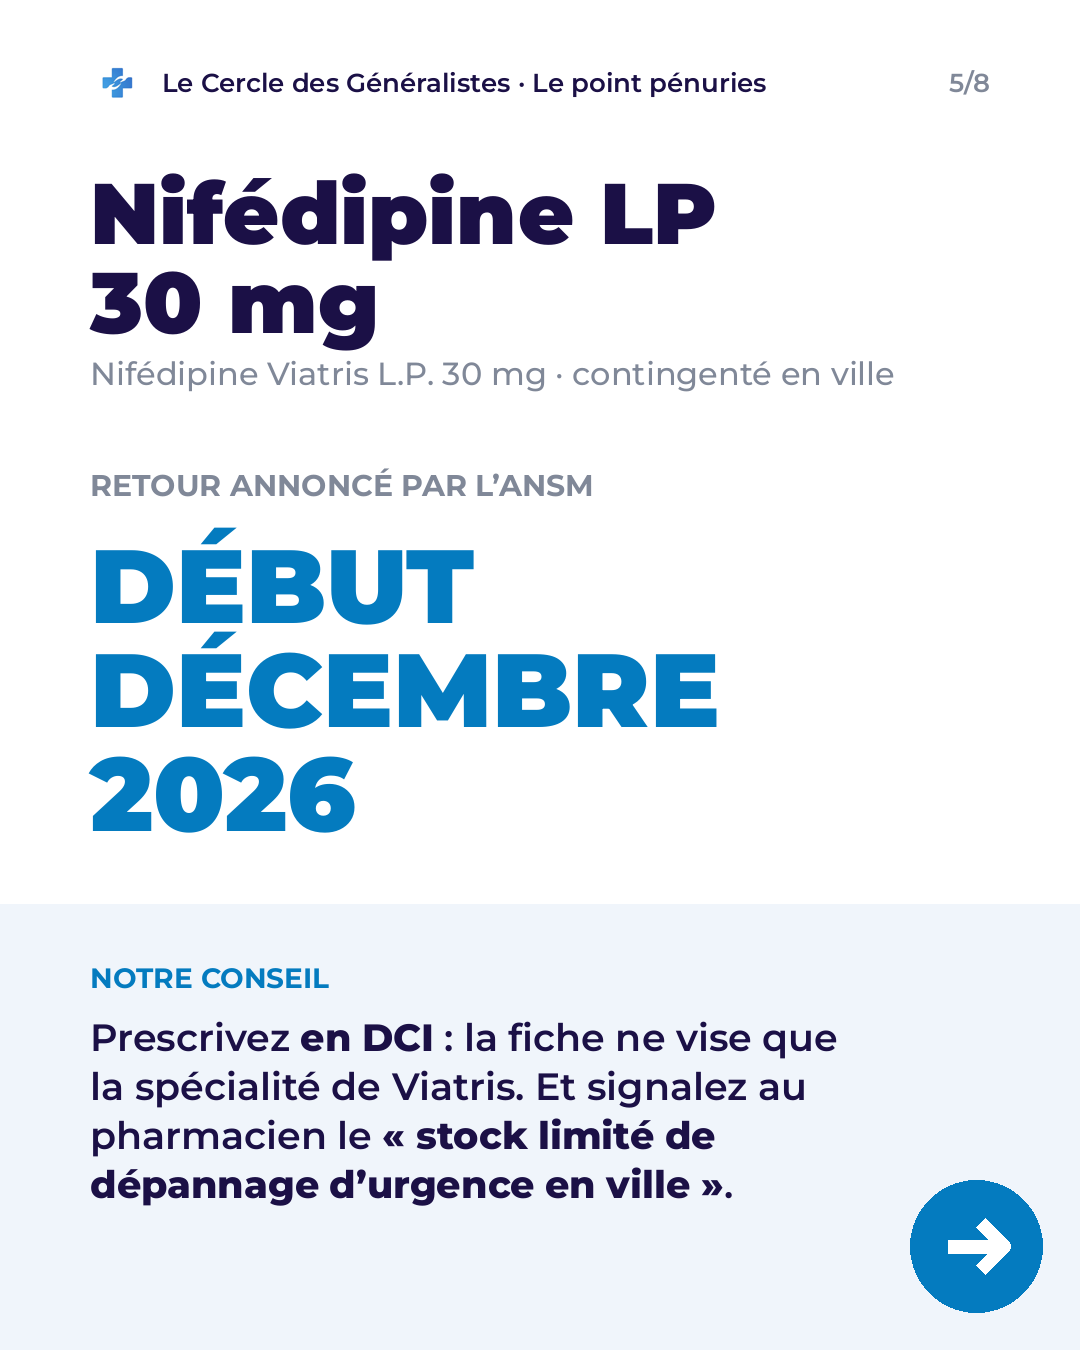
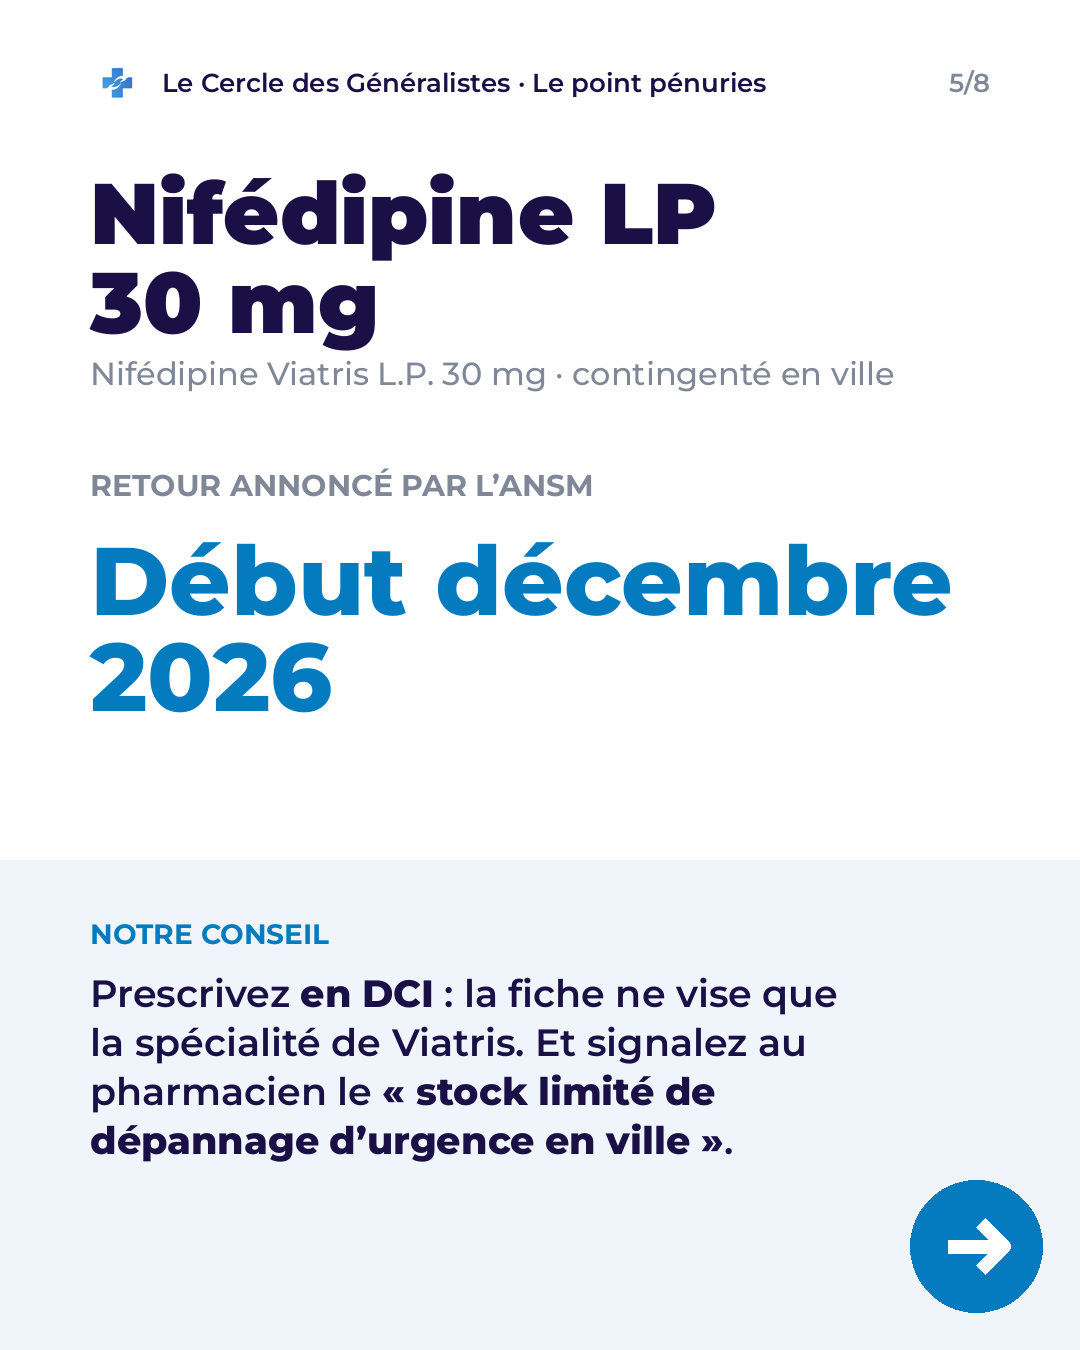
Carrousels du 19/11 : titres reecrits, sans capitales
Romain : pas de majuscules, titres a revoir entierement. Titres en Montserrat ExtraBold, casse normale, qui disent
ce que la slide apprend ; dates des fiches en casse normale ; controle du bandeau d'image trop bas.

Claude-Session: https://claude.ai/code/session_01E7sNzKT9uTZfQaWiRWBKKt

Changed region(s): [[0.0611, 0.6844, 0.7944, 0.9022], [0.0917, 0.3733, 0.8861, 0.6222]]

diff --git a/lcdg_1119/carrousels_1119.py b/lcdg_1119/carrousels_1119.py
@@ -32,9 +32,9 @@ MARGE = 90
 SORTIE = Path(__file__).resolve().parent / "carrousels"
 
 
-def titre(d, y, texte, taille=96):
+def titre(d, y, texte, taille=72):
     """Titre en capitales, Montserrat Black ; *mot* en bleu."""
-    return ecrire(d, MARGE, y, W - 2 * MARGE, texte.upper(), taille, graisse="Black", graisse_forte="Black",
+    return ecrire(d, MARGE, y, W - 2 * MARGE, texte, taille, graisse="ExtraBold", graisse_forte="ExtraBold",
                   couleur=NUIT, accent=BLEU, interligne=1.04)
 
 
@@ -71,7 +71,7 @@ def slide(s, num, total, rubrique):
     d = ImageDraw.Draw(im)
     entete(im, d, num, total, rubrique)
     y = 150
-    y += titre(d, y, s["titre"], s.get("taille_titre", 92))
+    y += titre(d, y, s["titre"], s.get("taille_titre", 72))
     y += 34
     y += ecrire(d, MARGE, y, W - 2 * MARGE, s["texte"], s.get("taille", 38), graisse="Regular",
                 graisse_forte="Bold", couleur=TEXTE, interligne=1.36)
@@ -84,7 +84,10 @@ def slide(s, num, total, rubrique):
         d.text((MARGE + l + 90, y + 40), "Lien en bio", font=police(30, "SemiBold"), fill=GRIS, anchor="lm")
         y += 80
     ill = illustration(s["image"]) if s.get("image") else None
-    bandeau_image(im, d, max(y + 50, s.get("bandeau_min", 820)), ill)
+    yb = max(y + 50, s.get("bandeau_min", 820))
+    if ill is not None and H - yb < 400:
+        print(f"[!] {rubrique} {num}/{total} : bandeau de l'image trop bas ({H - yb} px), raccourcir le texte")
+    bandeau_image(im, d, yb, ill)
     if num < total:
         fleche(d)
     return im
@@ -105,7 +108,7 @@ def fiche(f, num, total):
     y += 70
     d.text((MARGE, y), f["libelle"], font=police(30, "Bold"), fill=GRIS)
     y += 56
-    y += ecrire(d, MARGE, y, W - 2 * MARGE, f["date"].upper(), f.get("taille_date", 104), graisse="Black",
+    y += ecrire(d, MARGE, y, W - 2 * MARGE, f["date"], f.get("taille_date", 96), graisse="ExtraBold",
                 graisse_forte="Black", couleur=BLEU, accent=BLEU, interligne=1.0)
     # le geste, dans le bandeau pâle du bas
     yb = max(y + 70, 860)
@@ -121,7 +124,7 @@ def fiche(f, num, total):
 # ------------------------------------------------------------------ Secteur 3 (PDF p. 9 et 10)
 SECTEUR3 = [
     # p. 9, SITUATION ; ESSENTIEL (« Quand : au 1er janvier 2027 »)
-    {"titre": f"Secteur{NB}3{NB}: leurs ordonnances ne seront *plus remboursées*", "taille_titre": 82,
+    {"titre": f"Secteur{NB}3{NB}: leurs prescriptions *ne seront plus remboursées*",
      "bandeau_min": 700,
      "texte": f"À partir du **1er{NB}janvier 2027**, ce que prescrivent les médecins non conventionnés ne sera plus "
               f"remboursé, sauf exception. **Leurs patients viendront vers vous.**",
@@ -131,7 +134,7 @@ SECTEUR3 = [
     # p. 9, CE QUI EST CONFIRMÉ (L. 162-5-10 complété par l'article 76 : « Les produits de santé, les actes et les
     # prestations prescrits […] à l'exception de ceux prescrits par ces médecins à titre gracieux, pour eux-mêmes et
     # pour leurs proches ») ; p. 10 (« biologie, imagerie, kinésithérapie, soins infirmiers, transports »)
-    {"titre": f"Pas seulement *les médicaments*",
+    {"titre": f"Pas seulement les médicaments{NB}: *la kiné aussi*",
      "texte": f"L{AP}article{NB}76 vise les produits de santé, **les actes et les prestations** prescrits par un "
               f"médecin non conventionné. Donc aussi la biologie, l{AP}imagerie, la kiné, les soins infirmiers, les "
               f"transports.\nUne seule exception{NB}: ce qu{AP}il prescrit **à titre gracieux**, pour lui-même et ses "
@@ -144,9 +147,9 @@ SECTEUR3 = [
     # p. 9, CE QUI EST CONFIRMÉ (CE n° 517230 du 1er octobre 2026 : refus de renvoyer la QPC de MS3, UFML-S, SML et
     # d'autres ; « il juge que médecins conventionnés et non conventionnés ne sont pas dans une situation comparable et
     # que le droit à la protection de la santé n'est pas atteint, un médecin conventionné restant accessible »)
-    {"titre": f"Le Conseil d{AP}État *dit non*",
-     "texte": f"Des syndicats ont contesté la mesure. Le 1er{NB}octobre, le Conseil d{AP}État a refusé de "
-              f"transmettre leur question au Conseil constitutionnel.\nIl juge les deux situations non comparables, et "
+    {"titre": f"Le Conseil d{AP}État *rejette le recours*",
+     "texte": f"Le 1er{NB}octobre, il a refusé de transmettre au Conseil constitutionnel la question "
+              f"soulevée par des syndicats.\nIl juge les deux situations non comparables, et "
               f"le droit à la protection de la santé non atteint, **un médecin conventionné restant accessible**."
               f"\nSelon nous, ce médecin conventionné, **ce sera souvent vous.**",
      "image": [{"type": "lettre", "entete": f"Conseil d{AP}État", "titre": f"Décision du 1er{NB}octobre 2026"},
@@ -154,14 +157,14 @@ SECTEUR3 = [
     # p. 10, L'IMPACT (afflux en janvier : renouvellements, biologie, kiné ; pleine période hivernale) et REGARD
     # (« Le généraliste ne doit pas devenir un guichet de recopie. Une prescription engage celui qui la signe :
     # reprendre un traitement suppose une consultation et un examen, pas un tampon. »)
-    {"titre": f"Le piège de *la recopie*",
+    {"titre": f"Recopier l{AP}ordonnance{NB}? *Plutôt une consultation*",
      "texte": f"Selon le Cercle, janvier va apporter un **afflux de demandes**{NB}: renouvellements de traitements "
-              f"chroniques, biologie, kiné. En pleine période hivernale.\nMais selon nous, une prescription engage "
+              f"chroniques, biologie, kiné, en pleine période hivernale.\nMais selon nous, une prescription engage "
               f"celui qui la signe{NB}: reprendre un traitement suppose **une consultation et un examen, pas un "
               f"tampon.**",
      "image": {"type": "guichet", "enseigne": "Généraliste", "papier": "Recopie"}},
     # p. 10, RECOMMANDATIONS, médecin généraliste conventionné
-    {"titre": f"Décembre, *pas janvier*",
+    {"titre": f"Prévoyez des créneaux *dès décembre*",
      "texte": f"Notre recommandation{NB}: prévoyez **dès décembre des créneaux de reprise de suivi** pour ces "
               f"patients.\nEt à cette consultation, proposez-leur de vous **déclarer médecin traitant**, plutôt que "
               f"de recopier l{AP}ordonnance.",
@@ -169,7 +172,7 @@ SECTEUR3 = [
          {"icone": "horloge", "label": "Dès décembre : créneaux de reprise", "question": False},
          {"icone": "patient", "label": "Vous, déclaré médecin traitant", "question": False}]}},
     # p. 10, RECOMMANDATIONS, secrétariat médical
-    {"titre": f"Une question *au téléphone*",
+    {"titre": f"Au téléphone{NB}: *«{NB}Qui{NB}vous l{AP}a{NB}prescrite{NB}?{NB}»*",
      "texte": f"Votre secrétariat peut repérer ces patients au téléphone. Quand un patient appelle pour une "
               f"ordonnance{NB}: **«{NB}Qui vous l{AP}a prescrite{NB}?{NB}»**\nSi ce médecin n{AP}est pas "
               f"conventionné{NB}: proposez au patient **une consultation avant le 1er{NB}janvier 2027**, plutôt qu{AP}un simple "
@@ -178,7 +181,7 @@ SECTEUR3 = [
          {"icone": "casque", "label": f"«{NB}Qui vous l{AP}a prescrite{NB}?{NB}»", "question": False},
          {"icone": "patient", "label": f"Consultation avant le 1er{NB}janvier", "question": False}]}},
     # p. 9-10, CE QUI POSE QUESTION (3 questions au 19 novembre)
-    {"titre": f"Ce que les textes *ne disent pas*",
+    {"titre": f"Trois questions *encore sans réponse*",
      "texte": f"Une ordonnance de plusieurs mois, rédigée en 2026 et délivrée en 2027{NB}: remboursée ou pas{NB}? "
               f"**L{AP}article{NB}76 ne règle pas ce cas.**\nEt aucun texte lu ne dit comment le pharmacien saura "
               f"que le prescripteur n{AP}est pas conventionné, ni comment le patient, le laboratoire ou l{AP}infirmier "
@@ -188,10 +191,9 @@ SECTEUR3 = [
     # p. 10, REGARD : « Le Cercle demande à l'Assurance Maladie d'informer les patients concernés avant le 1er janvier,
     # de préciser le sort des ordonnances en cours, et de reconnaître la consultation de reprise de traitement comme une
     # consultation à part entière » (3 demandes, gardées pour le site)
-    {"titre": f"Ce que le Cercle *demande*",
+    {"titre": f"3 demandes du Cercle *à l{AP}Assurance Maladie*",
      "texte": f"Le Cercle adresse **3{NB}demandes à l{AP}Assurance Maladie**. Elles sont "
-              f"dans notre analyse complète, avec ce que la mesure change pour votre cabinet{NB}: dossier de la revue "
-              f"du 19{NB}novembre.",
+              f"dans notre analyse complète, dossier de la revue du 19{NB}novembre.",
      "adresse": True, "image": {"type": "verrou", "n": 3}},
 ]
 
@@ -199,7 +201,7 @@ SECTEUR3 = [
 # Ouverture et fin en slides « récit » ; une fiche par médicament entre les deux.
 PENURIES_OUVERTURE = {
     # p. 17, SITUATION et L'ESSENTIEL ; furosémide : actualité de l'ANSM du 18 novembre (CONTEXTE)
-    "titre": f"Le point *pénuries*", "taille_titre": 110,
+    "titre": f"Le point pénuries *du 19{NB}novembre*", "taille_titre": 84,
     "texte": f"6 médicaments en tension, parmi ceux que signale l{AP}ANSM au 19{NB}novembre. Pour chacun{NB}: "
              f"**ce qu{AP}annonce l{AP}ANSM, et ce qu{AP}il faut savoir au cabinet.**\nÀ enregistrer, pour l{AP}avoir sous la main en "
              f"consultation.",
@@ -209,7 +211,7 @@ FICHES = [
     # p. 17 (fiche du 13 novembre : remise à disposition courant décembre 2026) ; p. 19, RECOMMANDATIONS (check-list
     # de l'ANSM pour Jext ; « Stock de dépannage d'urgence en ville »)
     {"nom": f"Jext 300{NB}µg", "forme": f"Adrénaline, stylo prérempli · contingenté en{NB}ville",
-     "libelle": f"RETOUR ANNONCÉ PAR L{AP}ANSM", "date": f"Courant décembre 2026", "taille_date": 92,
+     "libelle": f"RETOUR ANNONCÉ PAR L{AP}ANSM", "date": f"Courant décembre 2026", "taille_date": 88,
      "qui": "NOTRE CONSEIL",
      "geste": f"Vérifiez que chaque patient allergique a **2{NB}stylos non périmés** (check-list de l{AP}ANSM). "
               f"Plus de Jext dans sa pharmacie{NB}? Signalez le **«{NB}Stock de dépannage d{AP}urgence en ville{NB}»**."},
@@ -220,7 +222,7 @@ FICHES = [
               f"pourra ainsi délivrer celle d{AP}un autre laboratoire, si elle est disponible."},
     # p. 17 (fiche du 4 novembre : remise à disposition prévue en janvier 2027) ; p. 19, RECOMMANDATIONS (DCI)
     {"nom": "Cotrimoxazole", "forme": f"Cotrimoxazole Teva 800{NB}mg/160{NB}mg · contingenté en{NB}ville",
-     "libelle": f"RETOUR ANNONCÉ PAR L{AP}ANSM", "date": "Janvier 2027", "taille_date": 120, "qui": "NOTRE CONSEIL",
+     "libelle": f"RETOUR ANNONCÉ PAR L{AP}ANSM", "date": "Janvier 2027", "taille_date": 92, "qui": "NOTRE CONSEIL",
      "geste": f"Prescrivez **en DCI**{NB}: la fiche de l{AP}ANSM ne vise que la spécialité de Teva. Le pharmacien "
               f"pourra ainsi délivrer celle d{AP}un autre laboratoire, si elle est disponible."},
     # p. 18 (fiche du 26 octobre : remise à disposition prévue début décembre 2026) ; p. 19, RECOMMANDATIONS (DCI ;
@@ -233,13 +235,13 @@ FICHES = [
     # de remplacer les comprimés indisponibles par une préparation magistrale, sans nouvelle ordonnance »)
     {"nom": f"Furosémide 20 et 40{NB}mg", "forme": "Comprimés",
      "libelle": f"TENSIONS SELON L{AP}ANSM (18{NB}NOVEMBRE)", "date": f"Devraient durer encore plusieurs mois en{NB}2027",
-     "taille_date": 70, "qui": f"CE QUE PERMET L{AP}ANSM",
+     "taille_date": 66, "qui": f"CE QUE PERMET L{AP}ANSM",
      "geste": f"**Pas de nouvelle ordonnance**{NB}: le pharmacien peut remplacer les comprimés indisponibles par une "
               f"préparation magistrale."},
     # p. 18 (fiche du 17 novembre : remise à disposition courant janvier 2027 ; « La spécialité Zovirax 200 mg
     # comprimés reste disponible pendant la durée de la tension de la suspension buvable »)
     {"nom": "Zovirax suspension", "forme": f"Aciclovir 200{NB}mg/5{NB}ml, suspension buvable · contingenté en{NB}ville",
-     "libelle": f"RETOUR ANNONCÉ PAR L{AP}ANSM", "date": "Courant janvier 2027", "taille_date": 96,
+     "libelle": f"RETOUR ANNONCÉ PAR L{AP}ANSM", "date": "Courant janvier 2027", "taille_date": 92,
      "qui": f"BON À SAVOIR (ANSM)",
      "geste": f"«{NB}La spécialité **Zovirax 200{NB}mg comprimés reste disponible** pendant la durée de la tension "
               f"de la suspension buvable{NB}»."},
